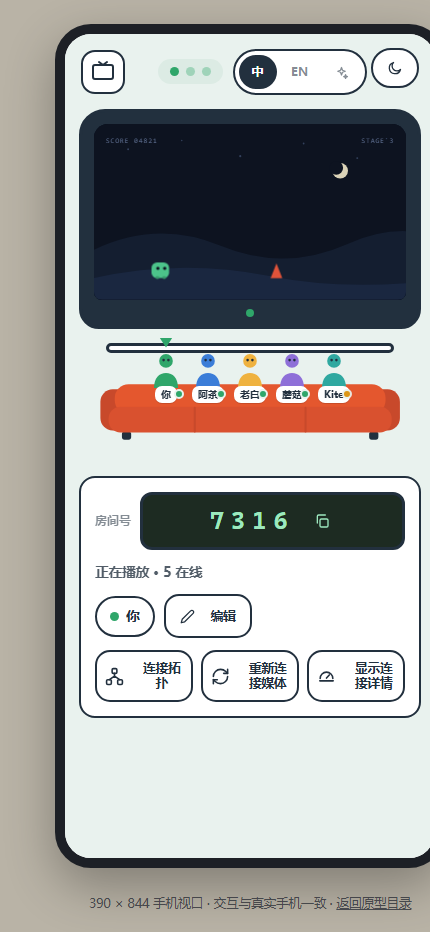
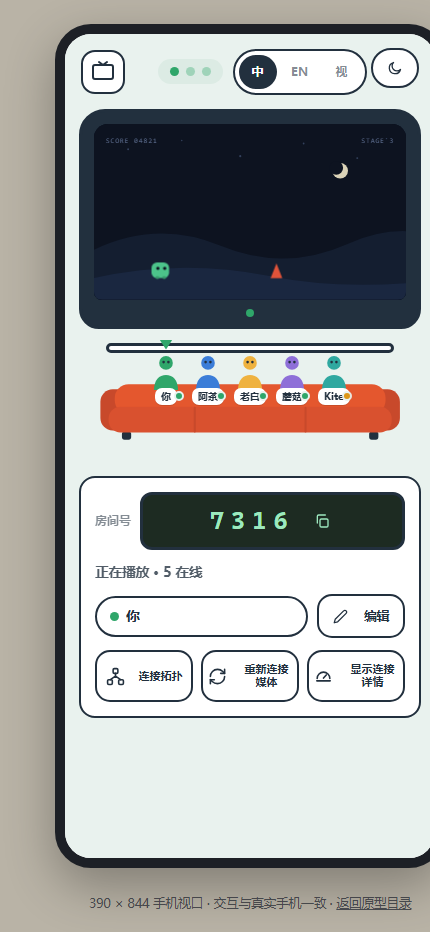
Ultracode layout pass: audit and verify across viewports, modes, themes

diff --git a/prototype/b-visual/b.js b/prototype/b-visual/b.js
@@ -39,7 +39,7 @@
     const inner = `
       ${pawnSvg(color)}
       ${opts.hideLed ? "" : `<i class="b-pawn-led ${waiting ? "is-wait" : ""}"></i>`}
-      ${D.vis || opts.child || opts.crowded ? "" : `<span class="b-pawn-name">${esc(viewer.name)}</span>`}`;
+      ${D.vis || opts.crowded ? "" : `<span class="b-pawn-name ${opts.child ? "is-mini" : ""}">${esc(viewer.name)}</span>`}`;
     if (opts.static) {
       return `<span class="b-pawn is-static ${opts.child ? "is-child" : ""}" style="${motion}" title="${esc(label)}">${inner}</span>`;
     }
@@ -108,7 +108,7 @@
   }
 
   function ledStrip(state, label) {
-    return `<span class="b-leds" data-state="${state}" title="${esc(label)}" aria-label="${esc(label)}" role="status"><i></i><i></i><i></i></span>`;
+    return `<span class="b-leds" data-state="${state}" title="${esc(label)}" aria-label="${esc(label)}" role="status"><i></i><i></i><i></i>${D.vis ? "" : `<span class="b-leds-label">${esc(label)}</span>`}</span>`;
   }
 
   function story(step) {
@@ -277,9 +277,9 @@
       <span class="b-lang" role="group" aria-label="${esc(t("mode.language"))}">
         ${modeBtn("zh", "中", "mode.zh")}
         ${modeBtn("en", "EN", "mode.en")}
-        ${modeBtn("vis", I("sparkles", 15), "mode.vis")}
+        ${modeBtn("vis", D.vis ? I("sparkles", 15) : "视", "mode.vis")}
       </span>
-      <button type="button" class="b-btn" data-settheme style="min-width:40px;height:40px;border-radius:999px" title="${esc(t(D.theme === "dark" ? "theme.light" : "theme.dark"))}" aria-label="${esc(t(D.theme === "dark" ? "theme.light" : "theme.dark"))}">${I(D.theme === "dark" ? "sun" : "moon", 16)}</button>`;
+      <button type="button" class="b-btn" data-settheme style="min-width:40px;height:40px;border-radius:999px" title="${esc(t(D.theme === "dark" ? "theme.light" : "theme.dark"))}" aria-label="${esc(t(D.theme === "dark" ? "theme.light" : "theme.dark"))}">${I(D.theme === "dark" ? "sun" : "moon", 16)}${D.vis ? "" : `<span class="b-cap">${esc(t(D.theme === "dark" ? "theme.light.short" : "theme.dark.short"))}</span>`}</button>`;
   }
 
   function bindHeaderControls(renderFn) {
@@ -387,8 +387,8 @@
       return `<div class="b-row" role="group" aria-label="${esc(t("host.invite"))}">
         <div class="b-row-group b-group-actions">
           <button class="b-btn ${H.invite ? "is-primary" : ""}" data-act="copy-invite" title="${esc(t("host.invite.copy"))}" aria-label="${esc(t("host.invite.copy"))}" ${H.invite ? "" : "disabled"}>${I("link", 19)}${cap("common.copy")}</button>
-          <button class="b-btn" data-act="rotate-invite" title="${esc(t("host.invite.rotate"))}" aria-label="${esc(t("host.invite.rotate"))}">${I("refresh", 18)}${cap("host.invite.rotate")}</button>
-          <button class="b-btn is-danger" data-act="revoke-invite" title="${esc(t("host.invite.revoke"))}" aria-label="${esc(t("host.invite.revoke"))}" ${H.invite ? "" : "disabled"}>${I("linkOff", 19)}${cap("host.invite.revoke")}</button>
+          <button class="b-btn" data-act="rotate-invite" title="${esc(t("host.invite.rotate"))}" aria-label="${esc(t("host.invite.rotate"))}">${I("refresh", 18)}${cap("host.invite.rotateShort")}</button>
+          <button class="b-btn is-danger" data-act="revoke-invite" title="${esc(t("host.invite.revoke"))}" aria-label="${esc(t("host.invite.revoke"))}" ${H.invite ? "" : "disabled"}>${I("linkOff", 19)}${cap("host.invite.revokeShort")}</button>
         </div>
         <span class="b-divider"></span>
         <div class="b-row-group">
@@ -397,7 +397,7 @@
             <button type="button" data-act="policy" data-v="private" class="${H.policy === "private" ? "is-selected" : ""}" title="${esc(t("host.policy.private"))} · ${esc(t("host.policy.privateHint"))}" aria-label="${esc(t("host.policy.private"))}" aria-pressed="${H.policy === "private"}">${I("lock", 19)}${cap("host.policy.private")}</button>
           </span>
           ${H.policy === "private" ? `
-          <button class="b-btn ${H.hasPassword ? "is-on" : ""}" data-act="password-toggle" title="${esc(t(H.hasPassword ? "host.password.set" : "host.password.unset"))}" aria-label="${esc(t("host.password.setAction"))}" aria-expanded="${H.passwordOpen}">${I("key", 19)}${cap("join.password")}</button>` : ""}
+          <button class="b-btn" data-act="password-toggle" title="${esc(t(H.hasPassword ? "host.password.set" : "host.password.unset"))}" aria-label="${esc(t("host.password.setAction"))}" aria-expanded="${H.passwordOpen}">${I("key", 19)}${H.hasPassword ? '<i class="b-chip-dot"></i>' : ""}${cap("join.password")}</button>` : ""}
         </div>
         ${H.policy === "private" && H.passwordOpen ? `
         <div class="b-row-group">
@@ -419,7 +419,7 @@
       ];
       const glyph = (density) => {
         const lines = [2, 3, 4][density];
-        const wave = density === 2 ? `<path d="M7 34c1.4 0 1.4-2 2.8-2s1.4 2 2.8 2 1.4-2 2.8-2 1.4 2 2.8 2" stroke="currentColor" stroke-width="1.6" fill="none" stroke-linecap="round"/>` : "";
+        const wave = density === 2 ? `<path d="M7 25.5c1.4 0 1.4-2 2.8-2s1.4 2 2.8 2 1.4-2 2.8-2 1.4 2 2.8 2" stroke="currentColor" stroke-width="1.6" fill="none" stroke-linecap="round"/>` : "";
         const bars = Array.from({ length: lines }, (_, i) => `<path d="M6 ${13 + i * 6}h16" stroke="currentColor" stroke-width="1.6" stroke-linecap="round" opacity="${0.45 + i * 0.2}"/>`).join("");
         return `<svg width="28" height="38" viewBox="0 0 28 38" fill="none" aria-hidden="true"><rect x="2" y="3" width="24" height="26" rx="4" stroke="currentColor" stroke-width="2.2"/>${bars}${wave}</svg>`;
       };
@@ -531,7 +531,7 @@
       root.innerHTML = `
       <div class="b-scene">
         <div class="b-tv">
-          <div class="b-tv-screen ${crt ? "is-on" : ""}" id="tv">
+          <div class="b-tv-screen ${crt ? "is-on" : ""} ${["idle", "ended", "error"].includes(H.scene) ? "has-entry" : ""}" id="tv">
             ${isLive() ? `<div data-feed ${H.scene === "paused" ? 'data-state="frozen"' : ""}></div>` : ""}
             ${H.switching ? `<div class="b-tv-static"></div>` : ""}
             ${tvHtml()}
@@ -561,7 +561,7 @@
             `) : ""}
           </div>
           ${phaseText ? `<div class="b-row-group b-group-status">${phaseText}${H.noAudio && isLive() ? pill("speaker", "", t("host.noAudio")) : ""}${H.notice ?? ""}</div>` : H.noAudio && isLive() ? `<div class="b-row-group b-group-status">${pill("speaker", "", t("host.noAudio"))}</div>` : H.notice ? `<div class="b-row-group b-group-status">${H.notice}</div>` : ""}
-          <span class="b-spacer"></span>
+          ${hasRoom() ? '<span class="b-spacer"></span>' : ""}
           <div class="b-row-group b-group-name">${nameHtml()}</div>
           <div class="b-row-group b-group-actions">${controlsHtml()}</div>
         </div>
@@ -865,9 +865,12 @@
 
     function pawnDetailHtml(children) {
       if (V.selectedPawn === "you") {
+        const selfName = [V.name, t("common.you")].includes("你") && V.name === t("common.you")
+          ? V.name
+          : `${V.name} · ${t("common.you")}`;
         return detailRow({
           color: YOU,
-          name: `${V.name} · ${t("common.you")}`,
+          name: selfName,
           route: V.route,
           metrics: viewerMetrics(V.name),
           expanded: V.metricsMore,
@@ -936,14 +939,14 @@
   if (page === "join") {
     const SCENES = ["form", "invalid", "joining", "denied", "notfound", "full", "gate"];
     const root = document.getElementById("join-root");
-    const J = { scene: D.scene || "form", code: "" };
+    const J = { scene: D.scene || "form", code: D.param("code", "") };
 
     function dialsHtml() {
       return `<div class="b-dials-wrap">
         <div class="b-dials" id="dials">
-          ${[0, 1, 2, 3].map((i) => `<span class="b-dial ${i === 0 ? "is-active" : ""}"></span>`).join("")}
+          ${[0, 1, 2, 3].map((i) => `<span class="b-dial ${J.code[i] ? "is-filled" : i === J.code.length ? "is-active" : ""}">${J.code[i] ?? ""}</span>`).join("")}
         </div>
-        <input inputmode="numeric" autocomplete="off" maxlength="4" aria-label="${esc(t("join.field"))}" data-dials-input ${J.scene === "invalid" ? 'value="12ab"' : ""}>
+        <input inputmode="numeric" autocomplete="off" maxlength="4" aria-label="${esc(t("join.field"))}" data-dials-input value="${J.scene === "invalid" ? "12ab" : J.code}">
       </div>`;
     }
 
@@ -1002,7 +1005,7 @@
         ${dialsHtml()}
         ${J.scene === "invalid" ? `<span class="b-join-error" role="alert" title="${esc(t("join.invalid"))}" aria-label="${esc(t("join.invalid"))}">${I("x", 24)}</span>` : ""}
         ${J.scene === "invalid" && !D.vis ? `<span class="b-cap" style="color:var(--danger)">${esc(t("join.invalid"))}</span>` : ""}
-        <button class="b-join-go" type="submit" title="${esc(t("join.submit"))}" aria-label="${esc(t("join.submit"))}" disabled>${I("arrowRight", 26)}</button>
+        <button class="b-join-go" type="submit" title="${esc(t("join.submit"))}" aria-label="${esc(t("join.submit"))}" ${J.code.length === 4 ? "" : "disabled"}>${I("arrowRight", 26)}</button>
         ${cap("join.submit")}
       </form></div>`;
       const input = root.querySelector("[data-dials-input]");

diff --git a/prototype/b-visual/b.css b/prototype/b-visual/b.css
@@ -90,6 +90,7 @@ ul { margin: 0; padding: 0; list-style: none; }
 
 /* LED status strip */
 .b-leds { display: inline-flex; gap: 7px; align-items: center; padding: 8px 12px; border-radius: 999px; background: var(--wall-2); }
+.b-leds-label { margin-left: 4px; font-size: 11.5px; font-weight: 700; color: inherit; opacity: .8; white-space: nowrap; }
 .b-leds i {
   width: 9px; height: 9px;
   border-radius: 50%;
@@ -170,7 +171,7 @@ ul { margin: 0; padding: 0; list-style: none; }
 .b-pawns {
   position: absolute;
   inset: 0 8% auto;
-  top: -30px;
+  top: -16px;
   display: flex;
   flex-wrap: wrap;
   justify-content: center;
@@ -195,7 +196,7 @@ ul { margin: 0; padding: 0; list-style: none; }
 .b-pawn.is-selected::before {
   content: "";
   position: absolute;
-  inset: -5px -7px;
+  inset: -3px -6px;
   border: 2.5px solid var(--action);
   border-radius: 13px;
 }
@@ -204,19 +205,18 @@ ul { margin: 0; padding: 0; list-style: none; }
 .b-pawn-detail { display: flex; flex-wrap: wrap; align-items: center; gap: 12px; }
 .b-pawn-detail .b-pawn-mini { display: grid; place-items: center; }
 .b-pawn-detail .b-pawn-mini svg { width: 28px; height: 34px; display: block; }
-.b-pawn-detail-name { font-size: 14px; font-weight: 800; }
+.b-pawn-detail .b-pawn-detail-name { font-size: 14px; font-weight: 800; }
+.b-pawn-detail .b-meter { flex: 1 1 100%; display: grid; grid-template-columns: repeat(auto-fill, minmax(126px, 1fr)); }
 .b-pawn-detail-close {
-  margin-left: auto;
   display: grid;
-  width: 34px; height: 34px;
+  width: 40px; height: 40px;
   place-items: center;
-  border: 0;
-  border-radius: 10px;
-  background: transparent;
+  border: 2.5px solid var(--ink);
+  border-radius: 12px;
+  background: var(--paper);
   color: var(--ink);
-  opacity: .6;
 }
-.b-pawn-detail-close:hover { opacity: 1; background: rgba(0, 0, 0, .06); }
+.b-pawn-detail-close:hover { background: var(--wall-2); }
 
 /* row groups: keep related controls on one line; they become tidy stacked
    lines with equal-width buttons on narrow screens */
@@ -225,7 +225,7 @@ ul { margin: 0; padding: 0; list-style: none; }
 .b-pawn.is-child svg { width: 30px; height: 36px; }
 
 /* crowded couch: 10+ viewers — smaller pawns, no name tags */
-.b-pawns.is-crowded { gap: 0 3px; }
+.b-pawns.is-crowded { gap: 6px 3px; top: -14px; }
 .b-pawns.is-crowded .b-pawn { width: 33px; }
 .b-pawns.is-crowded .b-pawn svg { width: 29px; height: 35px; }
 .b-pawns.is-crowded .b-pawn-led { width: 8px; height: 8px; }
@@ -423,9 +423,11 @@ ul { margin: 0; padding: 0; list-style: none; }
   background: var(--paper);
 }
 .b-toggle button {
-  display: grid;
-  width: 44px; height: 44px;
-  place-items: center;
+  display: inline-flex;
+  align-items: center;
+  justify-content: center;
+  gap: 5px;
+  min-width: 44px; height: 44px;
   border: 0;
   border-radius: 11px;
   background: transparent;
@@ -446,7 +448,7 @@ ul { margin: 0; padding: 0; list-style: none; }
   background: var(--paper);
   color: var(--ink);
 }
-.b-tile small { font-family: var(--mono); font-size: 11px; letter-spacing: .06em; color: #5d7086; }
+.b-tile small { font-family: var(--mono); font-size: 11px; letter-spacing: .02em; color: #5d7086; white-space: nowrap; }
 .b-tile.is-selected { background: var(--ink); }
 .b-tile.is-selected small { color: #c9d6e4; }
 .b-tile.is-selected { color: #fff; }
@@ -547,9 +549,10 @@ ul { margin: 0; padding: 0; list-style: none; }
 }
 
 /* route path */
-.b-route { overflow-x: auto; padding: 6px 2px; }
-.b-route svg { display: block; min-width: 460px; width: 100%; height: auto; }
+.b-route { overflow-x: auto; padding: 6px 2px; flex: 1 1 100%; }
+.b-route svg { display: block; width: 100%; max-width: 880px; height: auto; margin: 0 auto; }
 .b-route .flow { stroke-dasharray: 5 7; animation: b-flow 1.1s linear infinite; }
+.b-route text { paint-order: stroke; stroke: var(--paper); stroke-width: 3px; }
 @keyframes b-flow { to { stroke-dashoffset: -24; } }
 
 /* password dots row */
@@ -588,7 +591,7 @@ ul { margin: 0; padding: 0; list-style: none; }
   place-items: center;
   padding: 24px 16px 96px;
 }
-.b-join-panel { display: grid; justify-items: center; gap: 26px; }
+.b-join-panel { display: grid; justify-items: center; gap: 20px; }
 .b-join-door { color: var(--ink); }
 .b-join-door.is-shake { animation: b-shake .4s ease; }
 @keyframes b-shake {
@@ -698,11 +701,12 @@ ul { margin: 0; padding: 0; list-style: none; }
   font-size: 14.5px;
   font-weight: 600;
   color: #dfe8f2;
+  text-shadow: 0 1px 8px rgba(0, 0, 0, .65);
 }
 
 .b-entry-text { display: grid; gap: 6px; margin-bottom: 6px; }
-.b-entry-text h2 { font-size: clamp(19px, 2.6vw, 24px); font-weight: 800; color: #f2efe7; letter-spacing: -0.01em; }
-.b-entry-text p { max-width: 400px; margin: 0 auto; color: #9aa0b0; font-size: 13.5px; }
+.b-entry-text h2 { font-size: clamp(19px, 2.6vw, 24px); font-weight: 800; color: #f2efe7; letter-spacing: -0.01em; text-wrap: balance; }
+.b-entry-text p { max-width: 400px; margin: 0 auto; color: #9aa0b0; font-size: 13.5px; text-wrap: balance; }
 
 .b-story-item { display: grid; justify-items: center; gap: 6px; }
 .b-story-cap { font-size: 10.5px; font-weight: 600; color: #8ea0bd; white-space: nowrap; }
@@ -734,6 +738,7 @@ ul { margin: 0; padding: 0; list-style: none; }
   white-space: nowrap;
   box-shadow: 0 1px 0 rgba(0, 0, 0, .12);
 }
+.b-pawn-name.is-mini { font-size: 9px; max-width: 40px; padding: 0 5px; }
 
 .b-door-glyph .b-cap { font-size: 13px; }
 .b-meter-tag .b-cap { margin-left: 6px; font-size: 12px; }
@@ -837,7 +842,7 @@ html[data-theme="dark"] .scene-bar-label { color: #7d92a8; }
 /* ---------- responsive ---------- */
 
 @media (max-width: 640px) {
-  .b-pawns { top: -24px; gap: 2px 6px; }
+  .b-pawns { top: -22px; gap: 2px 6px; }
   .b-pawn { width: 36px; }
   .b-pawn svg { width: 32px; height: 39px; }
   .b-row { flex-direction: column; align-items: stretch; gap: 12px; padding: 14px; }
@@ -845,17 +850,23 @@ html[data-theme="dark"] .scene-bar-label { color: #7d92a8; }
   .b-row > .b-divider { display: none; }
   .b-row-group { width: 100%; gap: 9px; }
   .b-group-actions { display: flex; width: 100%; gap: 8px; min-width: 0; }
-  .b-group-actions .b-btn { flex: 1 1 0; min-width: 0; min-height: 52px; padding: 4px 8px; }
-  .b-group-actions .b-btn .b-cap { white-space: normal; text-align: center; line-height: 1.25; }
+  .b-group-actions .b-btn { flex: 1 1 0; min-width: 0; min-height: 52px; padding: 4px 5px; gap: 6px; }
+  .b-group-actions .b-btn .b-cap { white-space: normal; text-align: center; line-height: 1.25; font-size: 11px; }
   .b-lcd { flex: 1; justify-content: center; }
   .b-tiles { display: flex; width: 100%; gap: 8px; }
   .b-tiles .b-tile { flex: 1 1 0; min-width: 0; padding: 10px 6px 8px; }
   .b-meter { display: grid; grid-template-columns: repeat(2, minmax(0, 1fr)); width: 100%; }
   .b-meter-cell { justify-content: flex-start; }
-  .b-pawn-detail-close { margin-left: 0; }
+  .b-group-name .b-name-tag { flex: 1; }
+  .b-toggle { flex: 1; }
+  .b-toggle button { flex: 1; }
   .b-door-body { padding: 12px; }
   .b-dial { width: 54px; height: 66px; font-size: 28px; }
   .b-status-text { width: 100%; }
+  .b-tv-screen.has-entry { aspect-ratio: auto; min-height: 292px; }
+  .b-tv-big { width: 72px; height: 72px; }
+  .b-leds-label { display: none; }
+  #header-mode .b-btn .b-cap { display: none; }
 }
 
 /* ---------- reduced motion ---------- */

diff --git a/prototype/shared/strings.js b/prototype/shared/strings.js
@@ -88,6 +88,8 @@ window.SCREENER_COPY = {
     "host.invite.copy": "复制邀请链接",
     "host.invite.rotate": "更新邀请链接",
     "host.invite.revoke": "撤销邀请链接",
+    "host.invite.rotateShort": "更新链接",
+    "host.invite.revokeShort": "撤销链接",
     "host.invite.updated": "邀请链接已更新",
     "host.invite.revoked": "邀请链接已撤销",
     "host.invite.emptyOpen": "暂无邀请链接，仍可凭房间号加入",
@@ -224,6 +226,8 @@ window.SCREENER_COPY = {
 
     "theme.dark": "切换到暗色模式",
     "theme.light": "切换到浅色模式",
+    "theme.dark.short": "暗色",
+    "theme.light.short": "浅色",
 
     "story.room": "找到房间",
     "story.link": "建立连接",
@@ -316,6 +320,8 @@ window.SCREENER_COPY = {
     "host.invite.copy": "Copy invite link",
     "host.invite.rotate": "Rotate invite link",
     "host.invite.revoke": "Revoke invite link",
+    "host.invite.rotateShort": "Rotate link",
+    "host.invite.revokeShort": "Revoke link",
     "host.invite.updated": "Invite link rotated",
     "host.invite.revoked": "Invite link revoked",
     "host.invite.emptyOpen": "No invite link; the room code still works",
@@ -452,6 +458,8 @@ window.SCREENER_COPY = {
 
     "theme.dark": "Switch to dark mode",
     "theme.light": "Switch to light mode",
+    "theme.dark.short": "Dark",
+    "theme.light.short": "Light",
 
     "story.room": "Room found",
     "story.link": "Linking up",

diff --git a/prototype/README.md b/prototype/README.md
@@ -30,9 +30,13 @@ Pages also open directly from the filesystem (no fetch calls).
 | Param | Effect |
 | --- | --- |
 | `?scene=NAME` | Initial scene (see the bottom bar for names per page) |
-| `&lang=en` / `&lang=zh` | Copy language |
-| `&viewers=N` | Roster size (0-8) |
+| `&mode=text` / `&mode=vis` | Language mode: zh/en text, or pure visual (default) |
+| `&lang=en` / `&lang=zh` | Copy language for text modes and tooltips |
+| `&theme=dark` / `&theme=light` | Theme (default: stored or system preference) |
+| `&viewers=N` | Roster size (0-24; 20 shows the crowded couch) |
 | `&chrome=0` | Hide the scene bar (used for screenshots) |
-| `&details=1` | Start with connection details expanded |
-| `&advanced=1` | Host: start with advanced settings expanded |
-| `&room=7316` | Room code shown |
+| `&details=1` / `&topology=1` / `&advanced=1` | Start with those panels expanded |
+| `&relay=1` | Viewer relays to two downstream children |
+| `&pawn=NAME` / `&metrics=1` | Pre-open a viewer detail row / its secondary metrics |
+| `&policy=private` / `&password=1` | Host admission state |
+| `&room=7316` / `&code=7316` | Room code shown / join dials prefilled |
